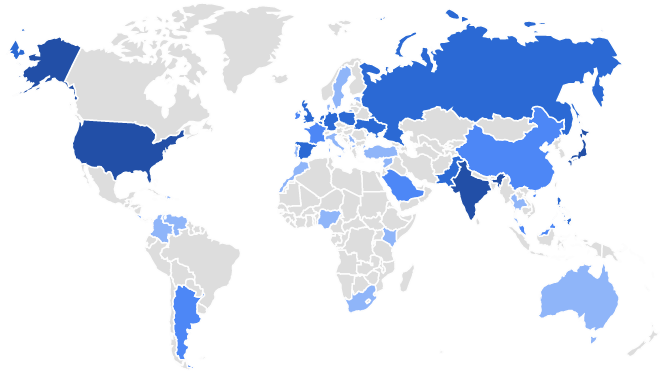
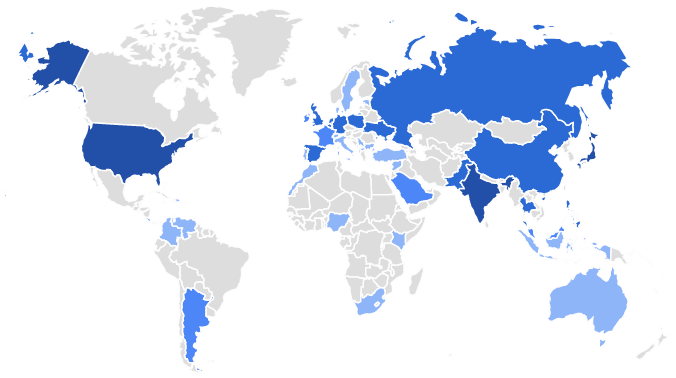
Update home page content a little bit (#110)

diff --git a/pages/index.tsx b/pages/index.tsx
@@ -447,7 +447,7 @@ export default function HomePage() {
       <div className='h-4 md:h-10'></div>
       <div className='text-xl md:text-3xl text-grey-800 p-2 m-2 text-center content-center place-items-center'>
         <p className='p-1 md:p-2'>
-          WorkStats users are in 41 countries worldwide.
+          WorkStats visitors are in 44 countries worldwide like below.
         </p>
       </div>
       <div className='flex place-content-center'>
